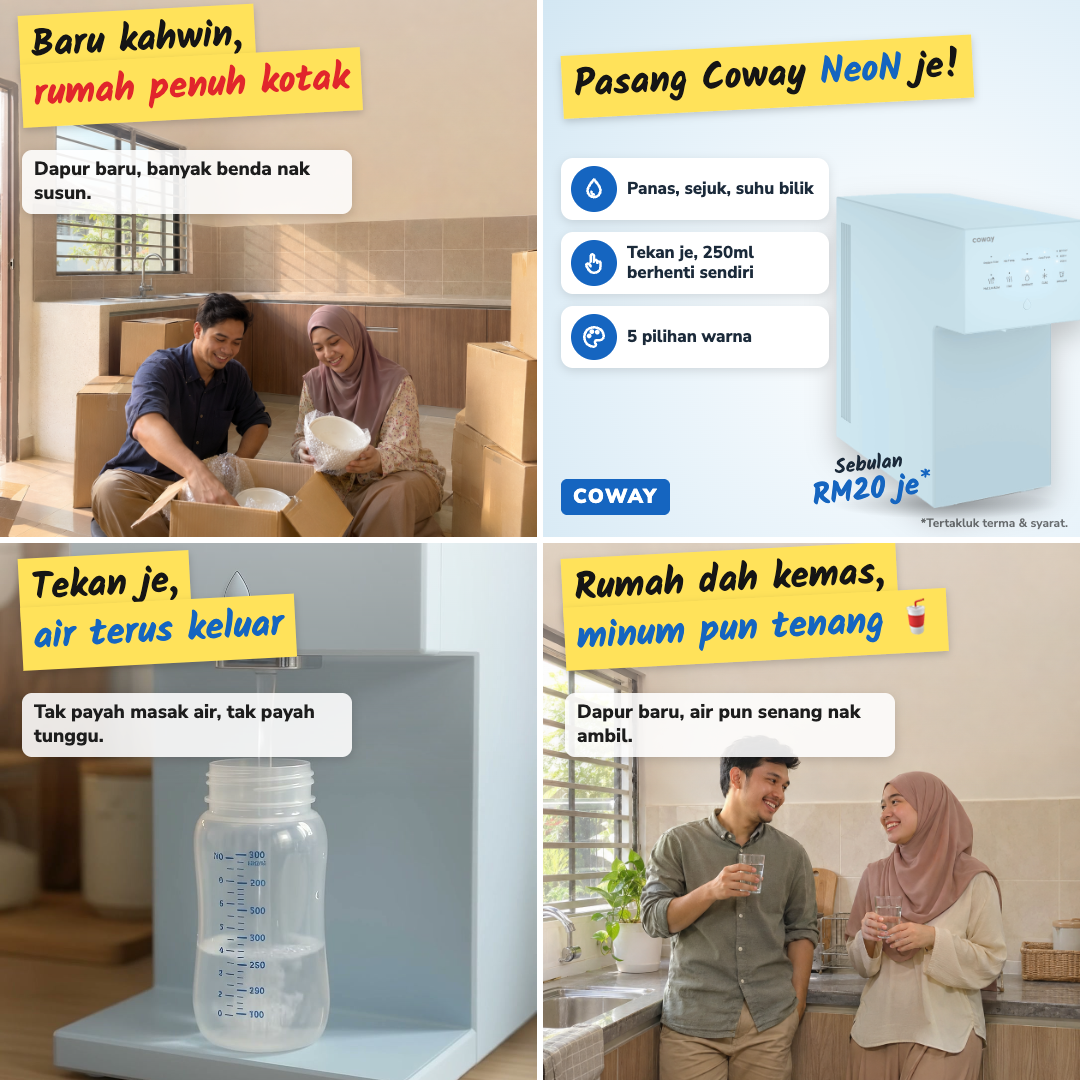
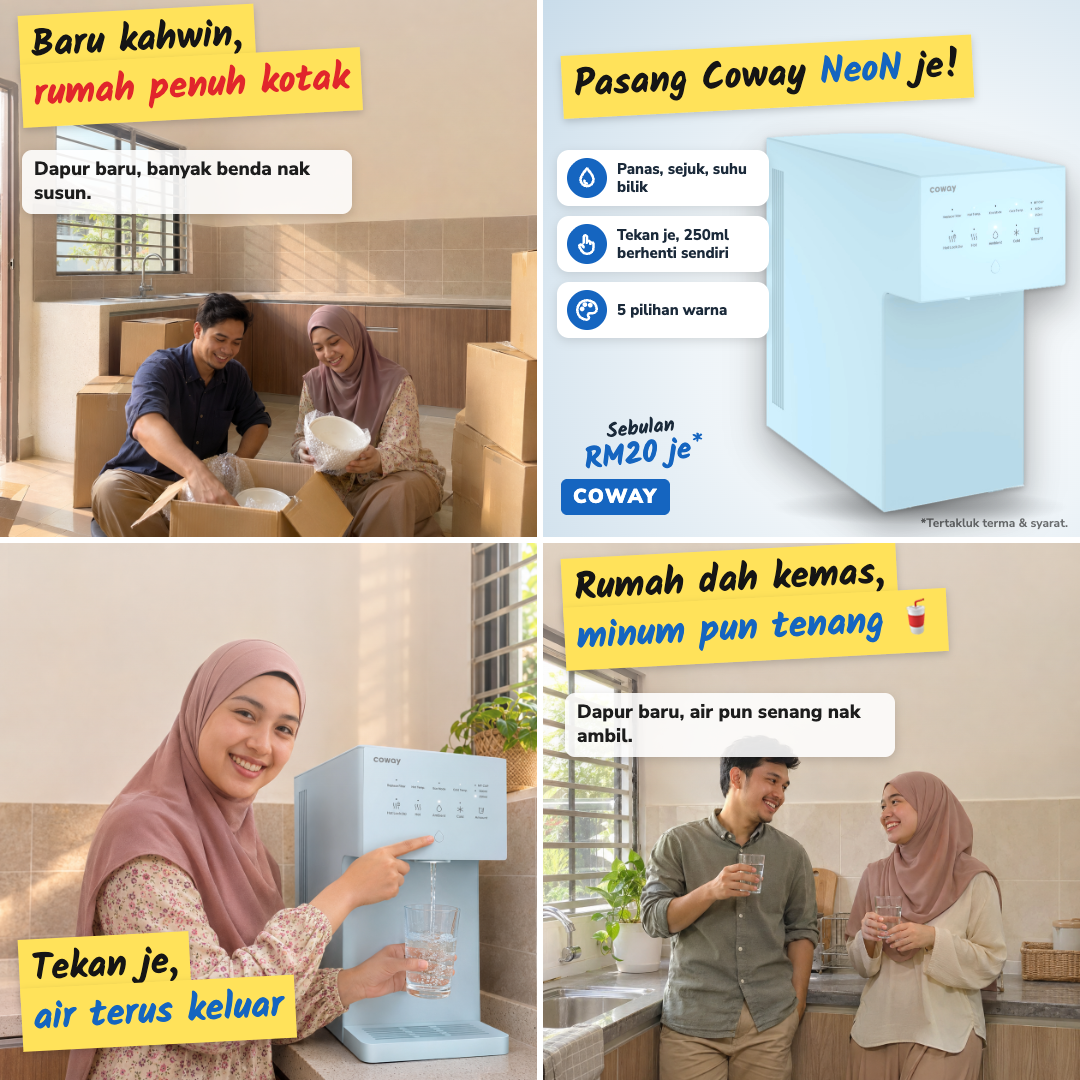
neon-grid-01: produk panel 2 lebih besar, model ganti botol di panel 3 G5-G7

diff --git a/projek/neon-grid-01/grid.html b/projek/neon-grid-01/grid.html
@@ -23,13 +23,13 @@ body{background:#222}
 .tnc{position:absolute;right:12px;bottom:8px;font:700 12px/1 Nunito;color:rgba(0,0,0,.55)}
 .tnc.w{color:rgba(255,255,255,.85);text-shadow:0 1px 2px rgba(0,0,0,.6)}
 /* panel produk */
-.prod{background:radial-gradient(circle at 70% 60%,#ffffff 0%,#e8f3fa 55%,#d3e7f3 100%)}
-.prod .unit{position:absolute;right:-6px;bottom:28px;width:250px;filter:drop-shadow(0 14px 14px rgba(0,0,0,.22))}
-.prod .floor{position:absolute;right:20px;bottom:18px;width:230px;height:30px;background:radial-gradient(ellipse,rgba(0,0,0,.25),rgba(0,0,0,0) 70%)}
-.chips{position:absolute;left:18px;top:158px;display:flex;flex-direction:column;gap:12px;width:268px}
+.prod{background:radial-gradient(circle at 70% 62%,#ffffff 0%,#eef4f8 45%,#c9dcea 100%)}
+.prod .unit{position:absolute;right:14px;bottom:24px;width:300px;filter:contrast(1.08) saturate(1.25) drop-shadow(0 18px 18px rgba(0,0,0,.28)) drop-shadow(0 2px 3px rgba(0,0,0,.25))}
+.prod .floor{position:absolute;right:10px;bottom:12px;width:300px;height:36px;background:radial-gradient(ellipse,rgba(0,0,0,.25),rgba(0,0,0,0) 70%)}
+.chips{position:absolute;left:14px;top:150px;display:flex;flex-direction:column;gap:10px;width:212px}
 .chip{display:flex;align-items:center;gap:10px;background:#fff;border-radius:12px;padding:8px 10px;box-shadow:0 3px 10px rgba(0,0,0,.12);
-  font:800 17px/1.2 Nunito;color:#1b2a3a}
-.chip i{flex:0 0 46px;height:46px;border-radius:50%;background:#1565c0;display:flex;align-items:center;justify-content:center}
+  font:800 15px/1.2 Nunito;color:#1b2a3a}
+.chip i{flex:0 0 40px;height:40px;border-radius:50%;background:#1565c0;display:flex;align-items:center;justify-content:center}
 .chip svg{width:26px;height:26px;stroke:#fff;fill:none;stroke-width:2.4;stroke-linecap:round;stroke-linejoin:round}
 .tag{position:absolute;left:18px;bottom:22px;background:#1565c0;color:#fff;font:900 20px/1 Nunito;letter-spacing:1.5px;padding:8px 12px;border-radius:6px}
 .call{position:absolute;font:700 30px/1.05 Kalam,cursive;color:#1565c0;transform:rotate(-6deg);text-align:center}
@@ -58,13 +58,13 @@ const chip = (ic,t)=>`<div class="chip"><i><svg><use href="#i-${ic}"/></svg></i>
 
 function photo(p){
   return `<div class="p"><img class="bg" src="img/${p.img}" style="object-position:${p.pos||'50% 50%'}"><div class="fade"></div>
-    ${lbl(p.l)}${sub(p.s,p.st)}${p.circ||''}${p.tnc?'<div class="tnc w">*Tertakluk terma & syarat.</div>':''}</div>`;
+    ${lbl(p.l,p.ls?`style="${p.ls}"`:'')}${sub(p.s,p.st)}${p.circ||''}${p.tnc?'<div class="tnc w">*Tertakluk terma & syarat.</div>':''}</div>`;
 }
 function prod(p){
   return `<div class="p prod"><div class="floor"></div><img class="unit" src="img/neon-ciel-34.png">
     <div class="tag">COWAY</div>${lbl(p.l,'style="top:64px"')}
     <div class="chips">${p.chips.map(c=>chip(c[0],c[1])).join('')}</div>
-    <div class="call" style="right:150px;bottom:30px"><small>Sebulan</small>RM20 je*</div>
+    <div class="call" style="left:40px;bottom:66px"><small>Sebulan</small>RM20 je*</div>
     <div class="tnc">*Tertakluk terma & syarat.</div></div>`;
 }
 const circ=(img,lab,x,y)=>`<div class="circ" style="left:${x}px;top:${y}px"><img src="img/${img}"><br><b>${lab}</b></div>`;
@@ -81,21 +81,21 @@ const GRIDS = [
  {id:'g5-baru-kahwin', p:[
   {img:'gen/g5-p1.png', pos:'50% 60%', l:'Baru kahwin,\n{r:rumah penuh kotak}', s:'Dapur baru, banyak benda nak susun.', st:150},
   {prod:1, l:'Pasang Coway {b:NeoN} je!', chips:[['temp','Panas, sejuk, suhu bilik'],['tap','Tekan je, 250ml berhenti sendiri'],['color','5 pilihan warna']]},
-  {img:'tuang.jpg', pos:'50% 72%', l:'Tekan je,\n{b:air terus keluar}', s:'Tak payah masak air, tak payah tunggu.', st:150},
+  {img:'gen/g5-p3.png', pos:'50% 50%', l:'Tekan je,\n{b:air terus keluar}', s:'', ls:'top:auto;bottom:34px'},
   {img:'gen/g5-p4.png', pos:'50% 60%', l:'Rumah dah kemas,\n{b:minum pun tenang} 🥤', s:'Dapur baru, air pun senang nak ambil.', st:150},
  ]},
  // G6 — Penat masak air · copy Codex
  {id:'g6-masak-air', p:[
   {img:'gen/g6-p1.png', pos:'50% 60%', l:'Air dah masak,\n{r:kena tunggu sejuk lagi?}', s:'Ibu tunggu air, kerja lain pun tertangguh.', st:150},
   {prod:1, l:'Pasang Coway {b:NeoN} je!', chips:[['temp','Panas, sejuk, suhu bilik'],['tap','Tekan je, 250ml berhenti sendiri'],['color','5 pilihan warna']]},
-  {img:'tekan.jpg', pos:'50% 58%', l:'Tekan je,\n{b:air terus keluar}', s:'Nak minum sekarang pun boleh.', st:150},
+  {img:'gen/g6-p3.png', pos:'50% 50%', l:'Tekan je,\n{b:air terus keluar}', s:'', ls:'top:auto;bottom:34px'},
   {img:'gen/g6-p4.png', pos:'50% 60%', l:'Tak perlu tunggu,\n{b:boleh santai minum} 😌', s:'Air sejuk terus ada bila nak minum.', st:150},
  ]},
  // G7 — Angkut tong air · copy Codex
  {id:'g7-angkut-tong', p:[
   {img:'gen/g7-p1.png', pos:'50% 60%', l:'Dua tong besar,\n{r:naik tangga tiap minggu?}', s:'Penat angkut, dapur pun belum tentu kemas.', st:150},
   {prod:1, l:'Pasang Coway {b:NeoN} je!', chips:[['temp','Panas, sejuk, suhu bilik'],['tap','Tekan je, 250ml berhenti sendiri'],['color','5 pilihan warna']]},
-  {img:'tuang.jpg', pos:'50% 72%', l:'Tekan je,\n{b:air terus keluar}', s:'Tak payah angkut, tak payah tunggu.', st:150},
+  {img:'gen/g7-p3.png', pos:'50% 50%', l:'Tekan je,\n{b:air terus keluar}', s:'', ls:'top:auto;bottom:34px'},
   {img:'gen/g7-p4.png', pos:'50% 60%', l:'Tong dah tak ada,\n{b:dapur pun lapang} 😌', s:'Nak minum, ambil je dekat dapur.', st:150},
  ]},
 ];

diff --git a/projek/neon-grid-01/README.md b/projek/neon-grid-01/README.md
@@ -34,6 +34,8 @@ Poster 1080×1080 untuk iklan Threads/Meta (pelanggan akhir), gaya rujukan iklan
 
 - 2026-11-19: G5–G7: copy ditulis Codex (struktur G1), gambar panel 1 & 4 dijana Codex (`img/gen/`, tiada unit NeoN AI, pakaian sopan). Panel 3 guna semula bingkai klip (tuang/tekan).
 
+- 2026-11-19: penghalusan (user): panel 2 unit NeoN dibesarkan ±60% panel dan lebih tajam; panel 3 G5–G7 (tiada kaitan bayi) ganti bingkai botol dengan model ±60% panel guna NeoN (dijana Codex dengan rujukan cutout rasmi, `img/gen/g*-p3.png`), label di bawah tanpa subteks supaya muka tak tertutup. G1 panel 3 kekal (cerita bayi).
+
 ## Terbuka
 - [x] User luluskan G1, G5–G7 + copy (19 Nov 2026)
 - [ ] Sahkan dengan ejen: RM20 sebulan masih sah untuk NeoN
